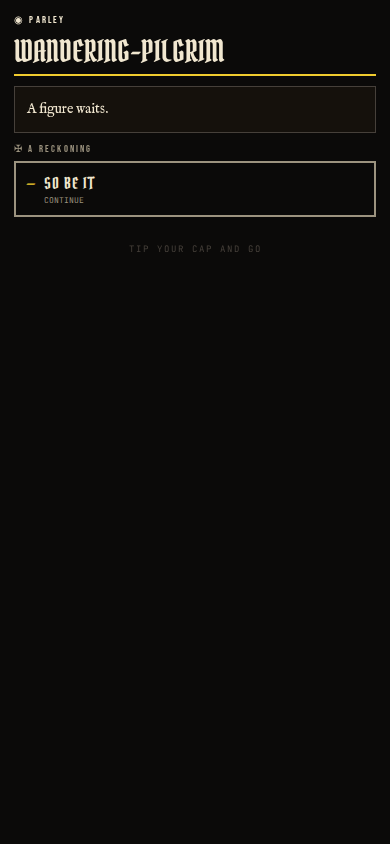
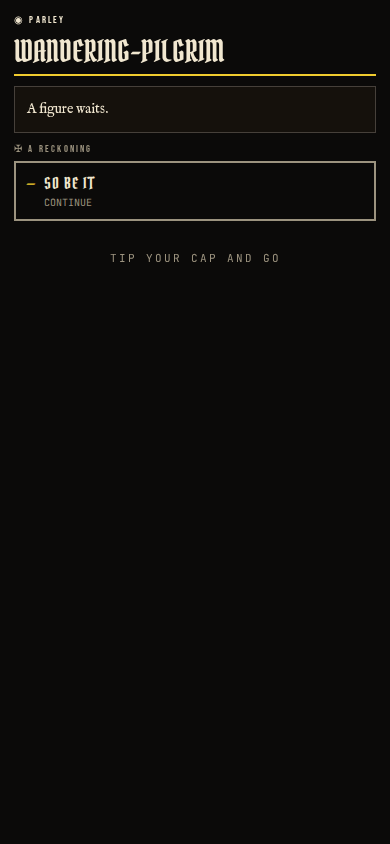
fix: DERIVED stat cells flex (113 -> spaced 1 1 3); dialogue true centering
- DERIVED data cells were collapsing together ('113') because each
  TooltipTarget wrapper lacked the column flex; move derivedCell flex to
  the wrapper so ATK/SKL/DEF align under their headers.
- Dialogue: ScreenBg scrollable=false + flex inner ScrollView so the
  centre-justify actually centres (the outer ScreenBg scroll had
  swallowed it).

Changed region(s): [[0.0308, 0.2156, 0.9538, 0.3081]]

diff --git a/app/(tabs)/character/index.tsx b/app/(tabs)/character/index.tsx
@@ -307,14 +307,14 @@ export default function CharacterScreen() {
           {vm.derived.map((row) => (
             <View key={row.label} style={[styles.derivedRow, styles.derivedDataRow]}>
               <Text style={[styles.derivedCell, styles.derivedRowLabel]}>{row.label}</Text>
-              <TooltipTarget kind="item-stat" id={row.attackId} accessibilityLabel={`Explain ${row.label} attack`} accessibilityHint="tap to read description" testID={`self-derived-${row.attackId}`}>
-                <Text style={[styles.derivedCell, styles.derivedData]}>{row.attack}</Text>
+              <TooltipTarget kind="item-stat" id={row.attackId} style={styles.derivedCell} accessibilityLabel={`Explain ${row.label} attack`} accessibilityHint="tap to read description" testID={`self-derived-${row.attackId}`}>
+                <Text style={styles.derivedData}>{row.attack}</Text>
               </TooltipTarget>
-              <TooltipTarget kind="item-stat" id={row.skillId} accessibilityLabel={`Explain ${row.label} skill`} accessibilityHint="tap to read description" testID={`self-derived-${row.skillId}`}>
-                <Text style={[styles.derivedCell, styles.derivedData]}>{row.skill}</Text>
+              <TooltipTarget kind="item-stat" id={row.skillId} style={styles.derivedCell} accessibilityLabel={`Explain ${row.label} skill`} accessibilityHint="tap to read description" testID={`self-derived-${row.skillId}`}>
+                <Text style={styles.derivedData}>{row.skill}</Text>
               </TooltipTarget>
-              <TooltipTarget kind="item-stat" id={row.defenseId} accessibilityLabel={`Explain ${row.label} defense`} accessibilityHint="tap to read description" testID={`self-derived-${row.defenseId}`}>
-                <Text style={[styles.derivedCell, styles.derivedData]}>{row.defense}</Text>
+              <TooltipTarget kind="item-stat" id={row.defenseId} style={styles.derivedCell} accessibilityLabel={`Explain ${row.label} defense`} accessibilityHint="tap to read description" testID={`self-derived-${row.defenseId}`}>
+                <Text style={styles.derivedData}>{row.defense}</Text>
               </TooltipTarget>
             </View>
           ))}

diff --git a/app/dialogue/index.tsx b/app/dialogue/index.tsx
@@ -128,8 +128,8 @@ export default function DialogueScreen() {
     if (!hasEvent) return <ScreenBg><View /></ScreenBg>;
 
     return (
-        <ScreenBg>
-            <ScrollView contentContainerStyle={styles.scroll}>
+        <ScreenBg scrollable={false}>
+            <ScrollView style={styles.scrollOuter} contentContainerStyle={styles.scroll}>
                 <Text style={styles.eyebrow}>◉ PARLEY</Text>
                 <View style={styles.nameplate} testID="dialogue-nameplate">
                     <Text style={styles.name}>{vm.title}</Text>
@@ -165,6 +165,7 @@ export default function DialogueScreen() {
 }
 
 const styles = StyleSheet.create({
+    scrollOuter: { flex: 1 },
     // Centre the conversation in the viewport so it doesn't sit in a sea
     // of empty black (critic round 1: narrative screens had huge dead space).
     scroll: { padding: 14, paddingBottom: 24, flexGrow: 1, justifyContent: 'center' },
